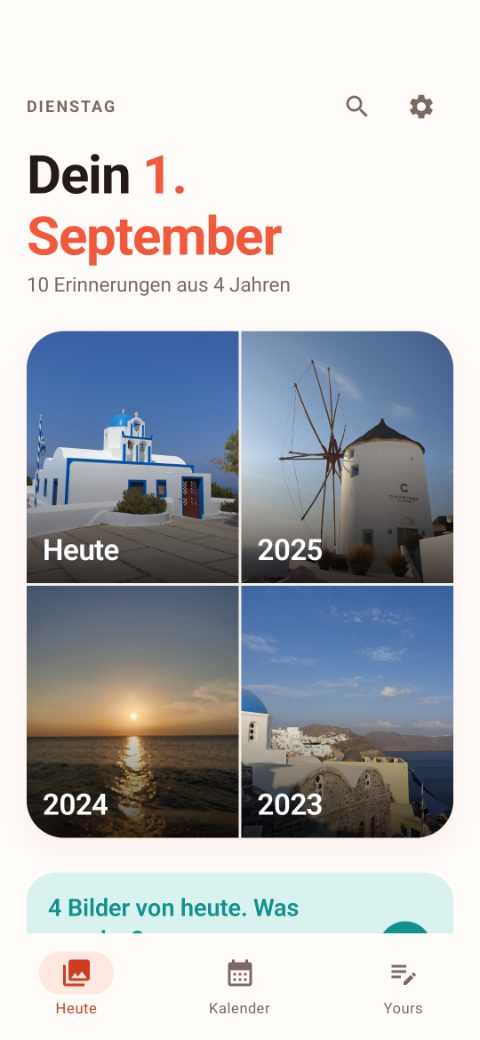
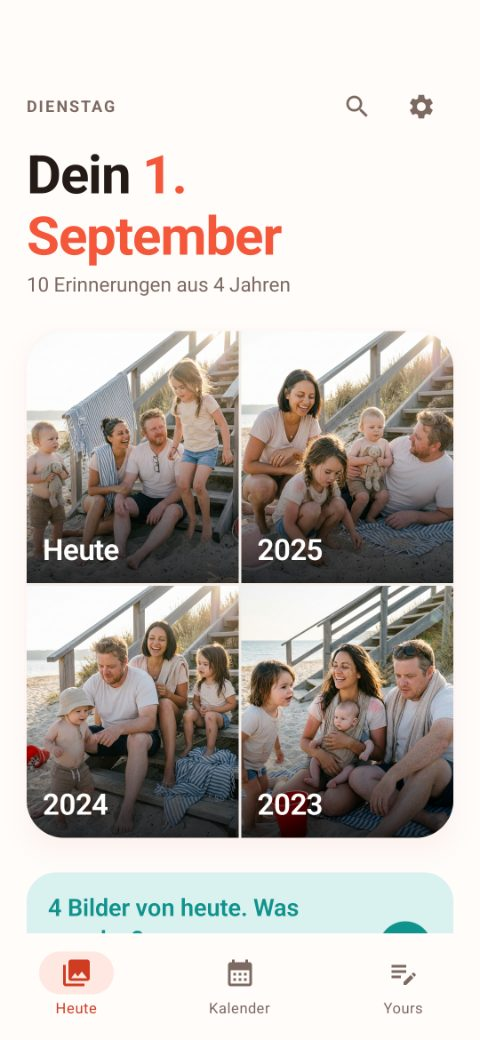
Webseite aktualisiert

diff --git a/es/index.html b/es/index.html
@@ -428,6 +428,8 @@
         <figcaption>Cartas para más adelante, que no se abren hasta el día que tú decidas.</figcaption>
       </figure>
     </div>
+    <p class="stack-hinweis">La interfaz es real. Las fotos que aparecen en ella
+      son imágenes de ejemplo, en parte generadas con IA.</p>
   </div>
 </section>
 

diff --git a/index.html b/index.html
@@ -429,6 +429,8 @@
         <figcaption>Briefe an später, die sich erst an dem Tag öffnen, den du bestimmst.</figcaption>
       </figure>
     </div>
+    <p class="stack-hinweis">Die Oberfläche ist echt. Die Fotos darin sind
+      Beispielbilder, zum Teil mit KI erzeugt.</p>
   </div>
 </section>
 

diff --git a/en/index.html b/en/index.html
@@ -429,6 +429,8 @@
         <figcaption>Letters to later that stay sealed until the day you choose.</figcaption>
       </figure>
     </div>
+    <p class="stack-hinweis">The interface is real. The photos inside it are
+      example images, partly generated with AI.</p>
   </div>
 </section>
 
